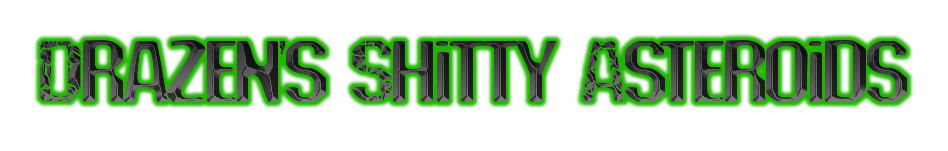
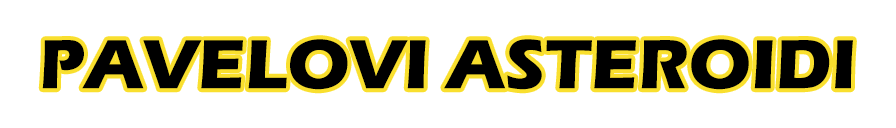
small changes

diff --git a/asteroids.js b/asteroids.js
@@ -11,7 +11,6 @@ var soundEffectsOn = false;
 var maxLevel = 10;
 var startLives = 5;
 var menuSelection = 0;
-// var optionsSelection;
 var level;
 var waitTime;
 var difficulty;
@@ -25,16 +24,6 @@ var minY = 0;
 var backgroundContext;
 var actionContext;
 var menuContext;
-
-/* 
-Song[] musicList = new Song[3];
-int currentSong = 0;
-SoundEffect fire;
-SoundEffect thrust;
-SoundEffectInstance thrustInstance;
-SoundEffect boom;
-SoundEffect boom2;
- */
 
 var ship;
 var fireballs  = [];
@@ -555,7 +544,6 @@ for (code in KEY_CODES) {
 }
 
 document.onkeydown = function(e) {
-  // Firefox and opera use charCode instead of keyCode to return which key was pressed.
   var keyCode = (e.keyCode) ? e.keyCode : e.charCode;
   if (KEY_CODES[keyCode]) {
     e.preventDefault();

diff --git a/index.html b/index.html
@@ -1,6 +1,6 @@
 <html>
 <head>
-<title>Josh's Shitty Asteroids</title>
+<title>Pavelovi Asteroidi</title>
 <link rel="shortcut icon" href="favicon.ico" type="image/x-icon">
 <style>
 canvas {
